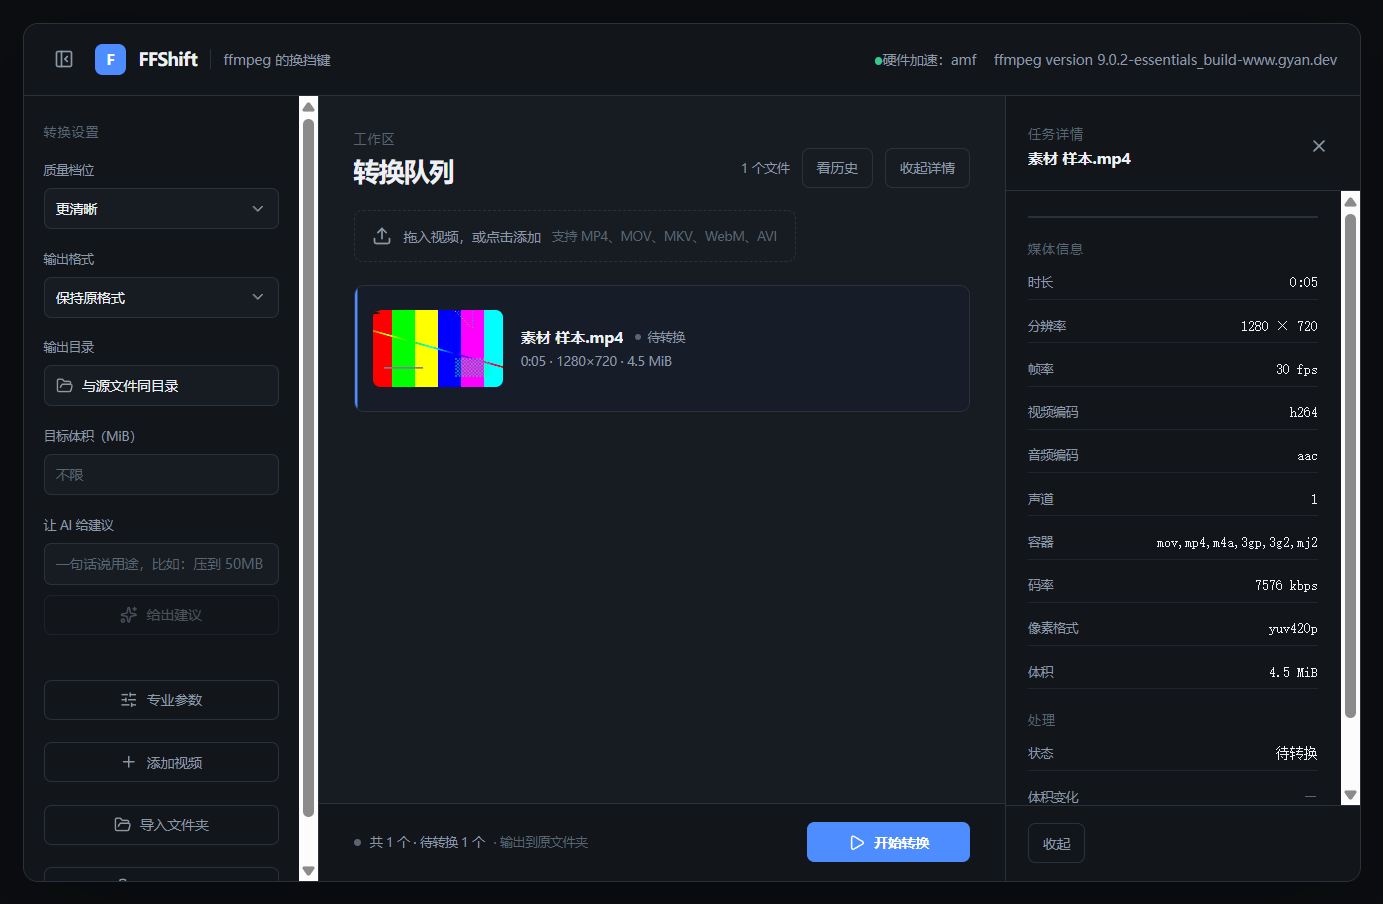
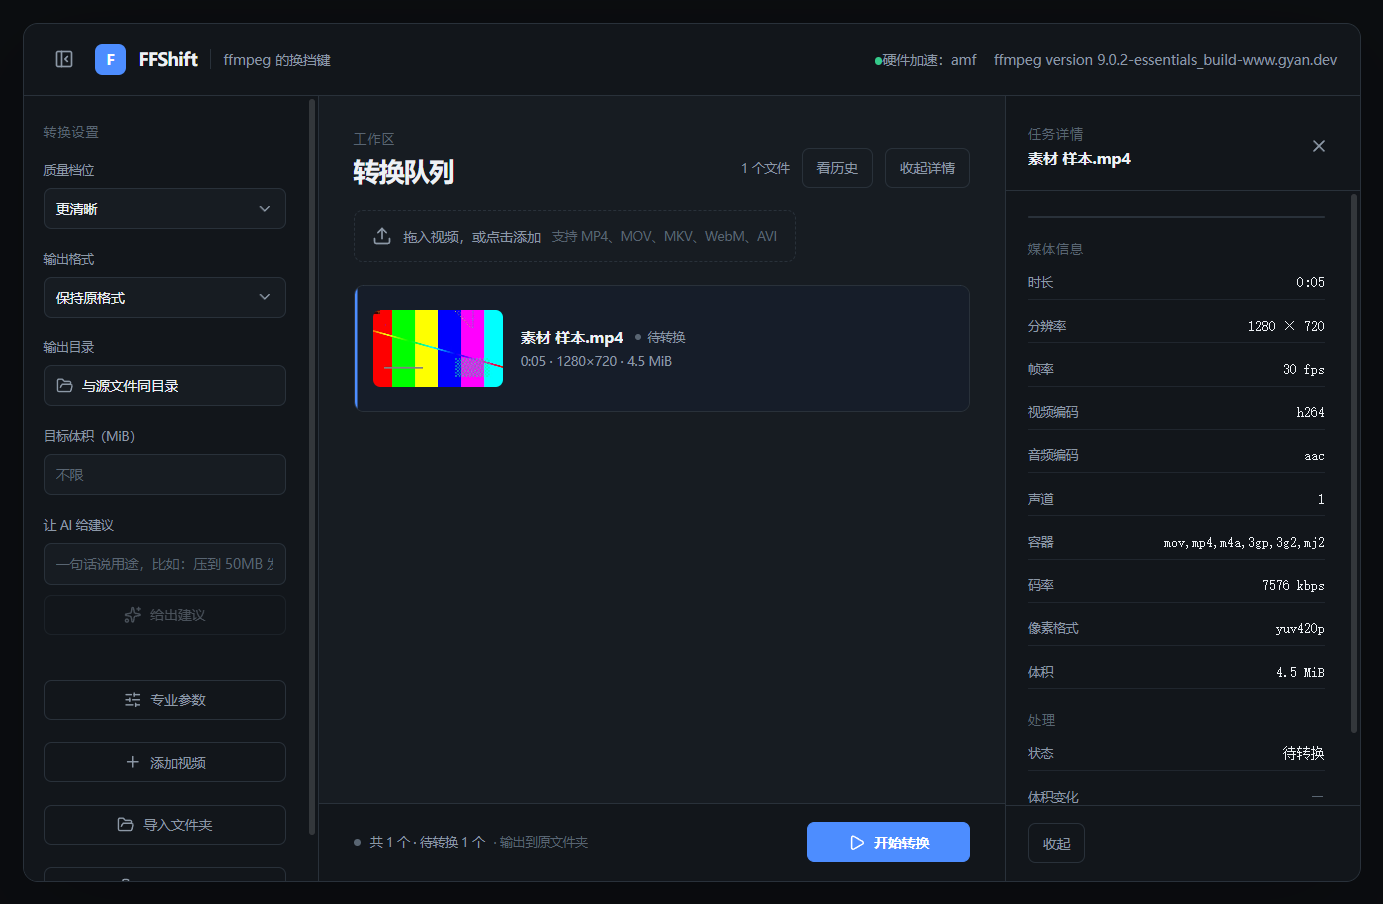
docs: 端到端测试的分工与钩子位置 (#26)
* docs: 把端到端测试的分工与钩子位置写进文档

- testing.md：三层测试各盯什么（单测盯逻辑、集成盯 ffmpeg、端到端盯界面链路），
  以及为什么端到端放 pre-push 而不是 pre-commit——40 秒且要先构建，
  放提交前只会让人想绕过钩子
- automation.md：表格补一行 pre-push 跑端到端测试，含跳过开关
- 顺带修掉 testing.md 里过时的数字（还写着单测 117 条、集成 15 条）
- 更新主界面截图（滚动条已换成细滑块）

验证：钩子自测 18 条、端到端 9 条全绿

* docs: 自动沉淀 3b78307

由 post-commit 钩子自动生成：提交流水、测试登记、项目状态页。

diff --git a/docs/project-status.md b/docs/project-status.md
@@ -1,6 +1,6 @@
 # 项目状态 · FFShift
 
-> 本文件由 `scripts/lib/status.mjs` 在每次提交后自动生成，**不要手改**。数据截至 2026-09-23 10:53:07。
+> 本文件由 `scripts/lib/status.mjs` 在每次提交后自动生成，**不要手改**。数据截至 2026-09-23 11:06:06。
 > 用途：一眼看清项目当前的信息密度——代码、规格、测试、文档各到什么程度。
 
 ## 概览
@@ -9,9 +9,9 @@
 | --- | --- |
 | 提交总数 | 43 |
 | 首个提交 | 2026-09-23 |
-| 最近提交 | 2026-09-23T18:52:54+08:00 |
-| 累计改动 | 121 files changed, 17959 insertions(+), 2737 deletions(-) |
-| 分支 | chore/bump-1.3.0、chore/bump-1.4.0、chore/repo-bootstrap、docs/e2e-status、main、test/e2e-suite |
+| 最近提交 | 2026-09-23T19:05:52+08:00 |
+| 累计改动 | 122 files changed, 18038 insertions(+), 2738 deletions(-) |
+| 分支 | chore/bump-1.3.0、chore/bump-1.4.0、chore/repo-bootstrap、docs/e2e-hook、main、test/e2e-suite |
 | 版本 Tag | v1.4.0、v1.3.0、v1.2.0、v1.1.0、v1.0.0、v0.1.0 |
 | 文档数 | 10 份 |
 | 能力规格 | 4 个 |

diff --git a/docs/testing.md b/docs/testing.md
@@ -5,8 +5,11 @@
 
 ## 1. 自动化测试（已落地）
 
-命令：`npm run test:unit`（117 条）与 `npm run test:integration`（15 条，真实调用本机 ffmpeg）。
+命令：`npm run test:unit`（237 条）、`npm run test:integration`（25 条，真实调用本机 ffmpeg）、`npm run test:e2e`（9 条，驱动真实界面）。
 集成测试在环境没有 ffmpeg 时整组跳过（`describe.skipIf`），不会挡住协作者。
+
+三层测试的分工：单测盯纯逻辑与参数构造；集成测试盯 ffmpeg 跑不跑得通；端到端盯"界面上点一下，整条链路对不对"。
+前两层进提交前的快速检查，端到端放在 `git push` 前——它要 40 秒并且会先构建，放提交前会让人想绕过钩子。
 
 | 测试文件 | 覆盖点 |
 | --- | --- |

diff --git a/docs/automation.md b/docs/automation.md
@@ -10,6 +10,7 @@
 | 提交信息格式校验（area / 长度 / 祈使句 / 空话） | 钩子，自动拦截 | `git commit` |
 | 主分支保护（不让直接提交、直接推） | 钩子，自动拦截 | `git commit` / `git push` |
 | 密钥、大文件、禁提交路径、冲突标记 | 钩子，自动拦截 | `git commit` |
+| 端到端测试（驱动真实界面，约 40 秒） | 钩子，失败拦截 | `git push`（`FFSHIFT_SKIP_E2E=1` 或 config 里可跳过） |
 | 提交流水写进 `docs/ai-session-log.md` | 钩子，自动写 | 提交后（后台，不阻塞） |
 | 测试相关提交登记进 `docs/testing.md` | 钩子，自动写 | 提交后 |
 | `docs/project-status.md` 状态页刷新 | 钩子，自动生成 | 提交后 |

diff --git a/docs/ai-session-log.md b/docs/ai-session-log.md
@@ -170,3 +170,4 @@
 | 09-23 18:51 | test/e2e-suite | `2c4110f` | test: 真正的端到端测试（9 条，驱动真实界面） | e2e 9 条全绿（29.7s）、typecheck 通过 | 8 <!-- commit:2c4110f --> |
 | 09-23 18:51 | test/e2e-suite | `2bb53a4` | docs: 把 e2e 的结果写回测试清单 | — | 3 <!-- commit:2bb53a4 --> |
 | 09-23 18:53 | docs/e2e-status | `7fabda2` | docs: 把 e2e 的结果写回测试清单 | — | 1 <!-- commit:7fabda2 --> |
+| 09-23 19:06 | docs/e2e-hook | `3b78307` | docs: 把端到端测试的分工与钩子位置写进文档 | 钩子自测 18 条、端到端 9 条全绿 | 3 <!-- commit:3b78307 --> |
